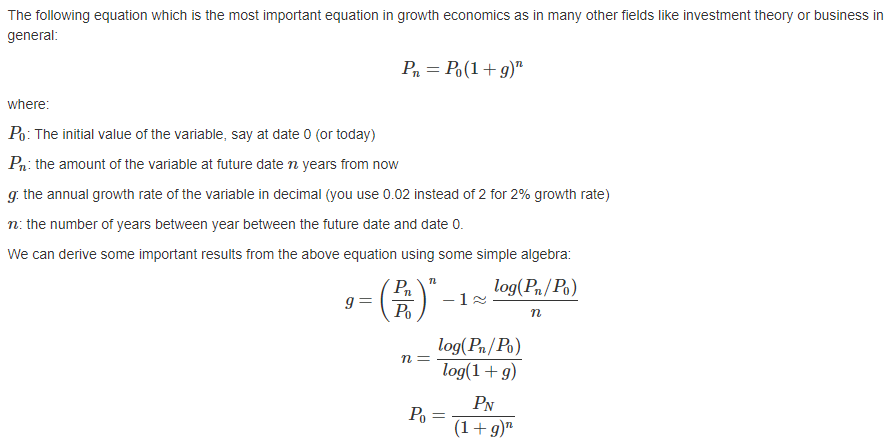
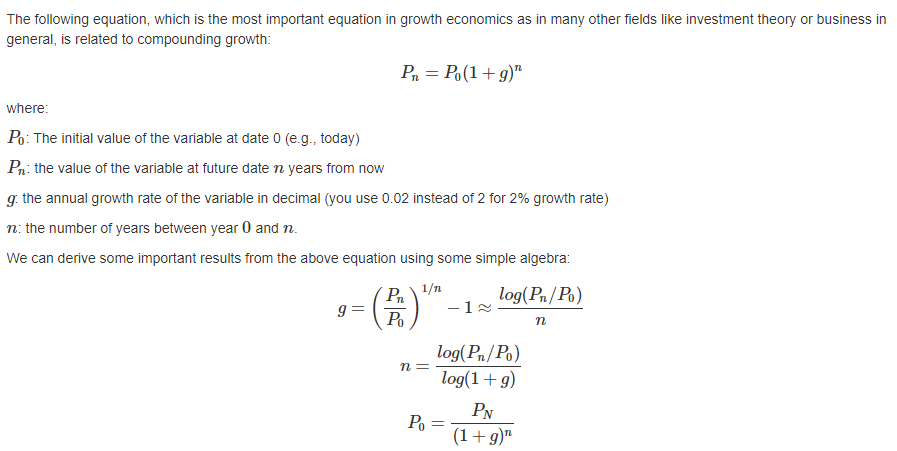
committed on 3/18/2025c

diff --git a/Z4exibits.html b/Z4exibits.html
@@ -11,7 +11,7 @@
 
 <meta name="author" content="Embyae" />
 
-<meta name="date" content="2025-03-14" />
+<meta name="date" content="2025-03-18" />
 
 <title>Untitled</title>
 
@@ -352,28 +352,27 @@ display: none;
 
 <h1 class="title toc-ignore">Untitled</h1>
 <h4 class="author">Embyae</h4>
-<h4 class="date">2025-03-14</h4>
+<h4 class="date">2025-03-18</h4>
 
 </div>
 
 
 <div id="section" class="section level2">
 <h2></h2>
-<p>The following equation which is the most important equation in growth
-economics as in many other fields like investment theory or business in
-general: <span class="math display">\[P_n= P_0(1 + g)^n\]</span>
-where:</p>
+<p>The following equation, which is the most important equation in
+growth economics as in many other fields like investment theory or
+business in general, is related to compounding growth: <span class="math display">\[P_n= P_0(1 + g)^n\]</span> where:</p>
 <p><span class="math inline">\(P_0\)</span>: The initial value of the
-variable, say at date 0 (or today)</p>
-<p><span class="math inline">\(P_n\)</span>: the amount of the variable
+variable at date 0 (e.g., today)</p>
+<p><span class="math inline">\(P_n\)</span>: the value of the variable
 at future date <span class="math inline">\(n\)</span> years from now</p>
 <p><span class="math inline">\(g\)</span>: the annual growth rate of the
 variable in decimal (you use 0.02 instead of 2 for 2% growth rate)</p>
 <p><span class="math inline">\(n\)</span>: the number of years between
-year between the future date and date 0.</p>
+year <span class="math inline">\(0\)</span> and <span class="math inline">\(n\)</span>.</p>
 <p>We can derive some important results from the above equation using
 some simple algebra: <span class="math display">\[g =\left(
-\frac{P_n}{P_0} \right)^{n}-1 \approx \frac{log(P_n/P_0)}{n}\]</span>
+\frac{P_n}{P_0} \right)^{1/n}-1 \approx \frac{log(P_n/P_0)}{n}\]</span>
 <span class="math display">\[n= \frac{log(P_n/P_0)}{log(1+g)}\]</span>
 <span class="math display">\[P_0= \frac{P_N}{(1 + g)^n}\]</span></p>
 </div>
